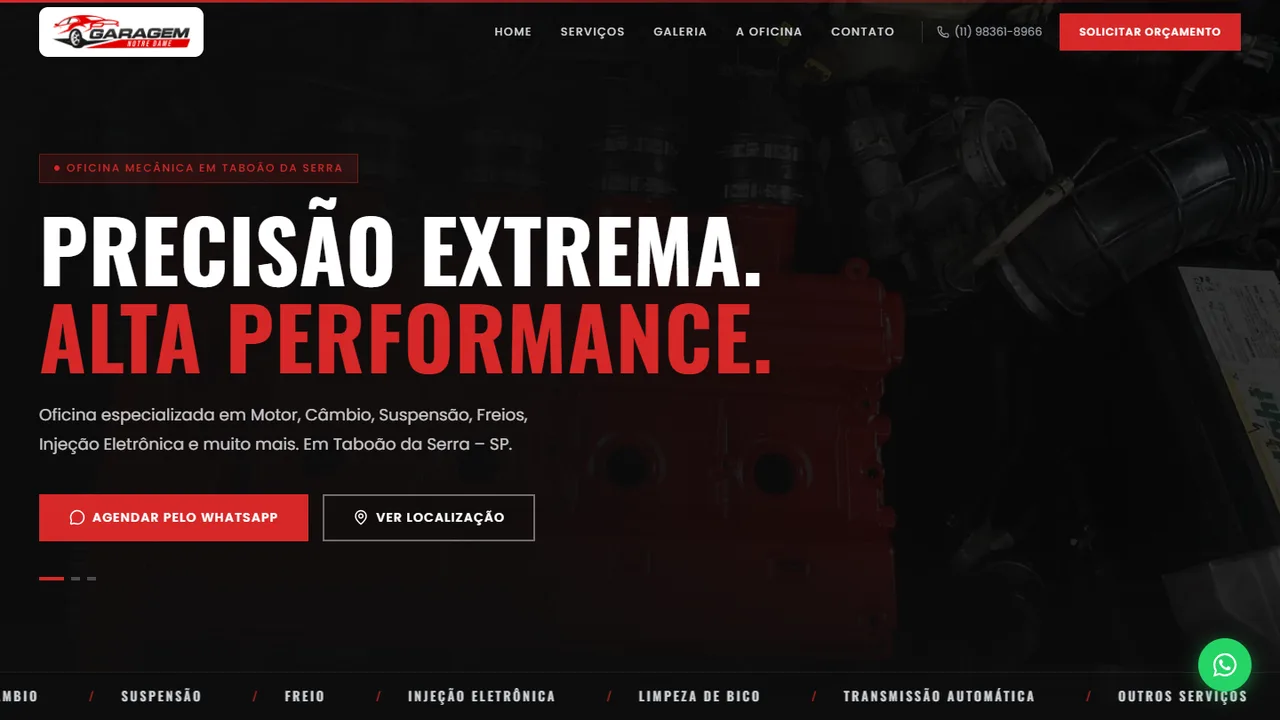
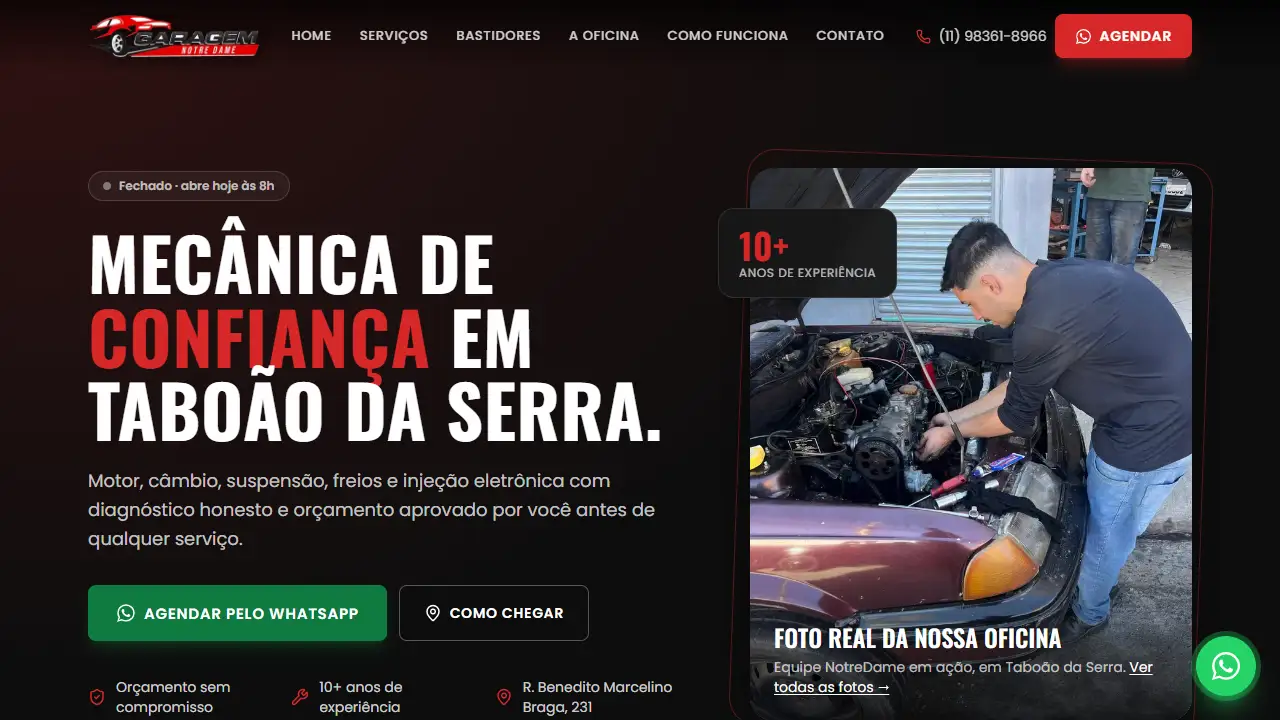
Portfólio com galeria (computador e celular), seção Padrão INV Devs e Garagem atualizada
- Fotos dos projetos abrem em tela cheia e deslizam: tela do computador + do celular de cada um
- Nova seção 'O que vem em todo site': só o que já entregamos nos projetos
- Garagem NotreDame: print e texto da versão repaginada

diff --git a/src/data/projetos.ts b/src/data/projetos.ts
@@ -77,8 +77,8 @@ export const projetos: Projeto[] = [
     segmento: 'Oficina mecânica · Taboão da Serra',
     resultado: 'Site para oficina que transforma quem pesquisa no Google em agendamento pelo WhatsApp.',
     descricao:
-      'Serviços, fotos reais da oficina, horário de funcionamento e mapa de como chegar, tudo pensado para o celular.',
-    destaques: ['Agendamento pelo WhatsApp', 'Fotos reais', 'Mapa e horários', 'Perguntas frequentes'],
+      'Fotos e vídeo reais da equipe, selo de "aberto agora" pelo horário da oficina e orçamento de cada serviço com a mensagem pronta no WhatsApp.',
+    destaques: ['Orçamento por serviço no WhatsApp', 'Fotos e vídeo reais', 'Aberto agora', 'Galeria que desliza'],
     stack: ['React', 'TypeScript', 'Tailwind CSS'],
     url: 'https://garagemnotredame.vercel.app',
     imagem: '/portfolio/garagem-notredame.webp',
